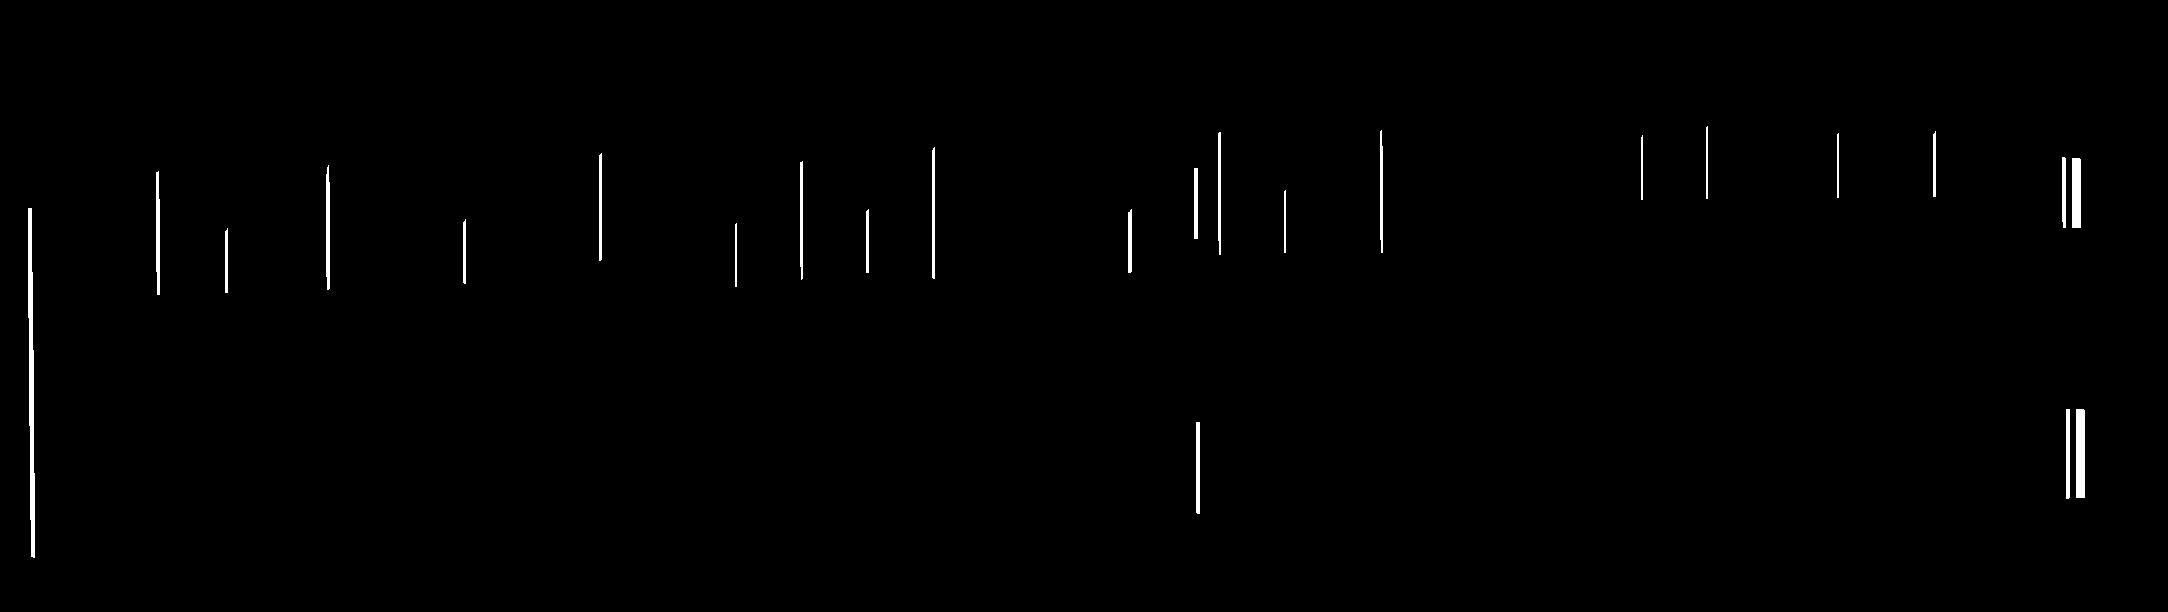
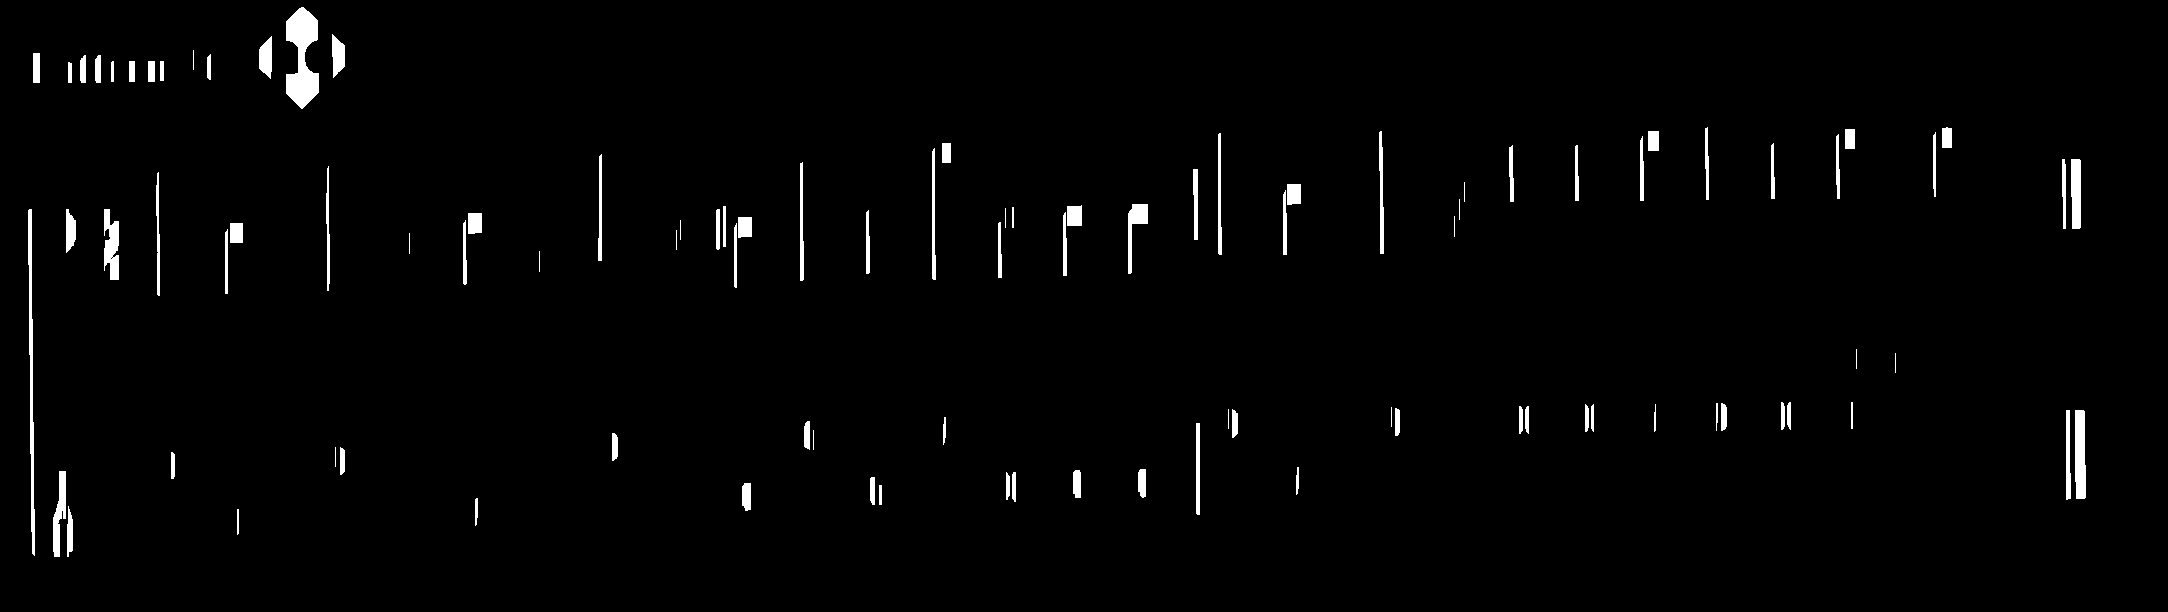
Mise en place d'un pipeline pour retrouver les notes/signes musicaux sur les partitions tablatures. C'est un début mais c'est encourageant ^^

diff --git a/morphological_operations.py b/morphological_operations.py
@@ -66,12 +66,12 @@ def morphological_skeleton(img, maxIter=1024):
         cv2.bitwise_or(skel, temp, skel)
         img = eroded
         nbIteration += 1
-        done = (cv2.countNonZero(img) == 0) and (nbIteration < maxIter)
+        done = (cv2.countNonZero(img) == 0) or (nbIteration >= maxIter)
 
     return skel, nbIteration
 
 
-def extract_horizontal(src, scale=40):
+def extract_horizontal(src, scale=30):
     """Summary
 
     Args:
@@ -103,7 +103,7 @@ def extract_horizontal(src, scale=40):
     return horizontal
 
 
-def extract_vertical(src, scale=10):
+def extract_vertical(src, scale=30):
     """Summary
 
     Args:
@@ -130,7 +130,7 @@ def extract_vertical(src, scale=10):
     return vertical
 
 
-def morpho_dilate(src):
+def morpho_dilate(src, kernelSize=2):
     """Summary
 
     Args:
@@ -141,8 +141,22 @@ def morpho_dilate(src):
     """
     # url:
     # http://opencv-python-tutroals.readthedocs.org/en/latest/py_tutorials/py_imgproc/py_morphological_ops/py_morphological_ops.html
-    kernel = np.ones((2, 2), np.uint8)
+    kernel = np.ones((kernelSize, kernelSize), np.uint8)
     return cv2.dilate(src, kernel, iterations=1)
+
+
+def morpho_erode(src, kernelSize=2):
+    """Summary
+
+    Args:
+        src (TYPE): Description
+        kernelSize (int, optional): Description
+
+    Returns:
+        TYPE: Description
+    """
+    kernel = np.ones((kernelSize, kernelSize), np.uint8)
+    return cv2.erode(src, kernel, iterations=1)
 
 
 def fore_back_ground(img1, img2):
@@ -242,7 +256,7 @@ def fillContours_filterByPerimeter(img, contours, **params):
             cv2.fillPoly(img, pts=contours, color=color)
 
 
-def detectLine_fromContours_filterByPerimeter(img, contours, **params):
+def detectLine_fromContours_filterByPerimeter(_img, contours, **params):
     """Summary
 
     Args:
@@ -272,7 +286,7 @@ def detectLine_fromContours_filterByPerimeter(img, contours, **params):
             righty = int(((width - x) * vy / vx) + y)
 
             # Finally draw the line
-            cv2.line(img_contours, (width - 1, righty), (0, lefty), color, thickness)
+            cv2.line(_img, (width - 1, righty), (0, lefty), color, thickness)
 
 
 def detectLine_LSD(src, minLength2=-1):
@@ -293,10 +307,10 @@ def detectLine_LSD(src, minLength2=-1):
     if lines is not None:
         if minLength2 != -1:
             def length2(line):
-                return (line[0][0]-line[0][2])**2 + (line[0][1]-line[0][3])**2
+                return (line[0][0] - line[0][2])**2 + (line[0][1] - line[0][3])**2
             lines = np.array(
                 filter(
-                    lambda line: length2(line) >= minLength2,
+                    lambda line: length2(line) <= minLength2,
                     lines
                 )
             )
@@ -340,12 +354,14 @@ def binarize_img(img):
     Returns:
         TYPE: Description
     """
-    bitwise_gray = ~gray
-    bw = cv2.adaptiveThreshold(bitwise_gray, 255, cv2.ADAPTIVE_THRESH_MEAN_C, cv2.THRESH_BINARY, 15, -2)
+    bitwise_gray = ~img
+    # bitwise_gray = cv2.medianBlur(cv2.Scharr(bitwise_gray, cv2.CV_8U, 0, 1), 5)
+    # bw = cv2.adaptiveThreshold(bitwise_gray, 255, cv2.ADAPTIVE_THRESH_MEAN_C, cv2.THRESH_BINARY, 15, -2)
     # bw = cv2.adaptiveThreshold(edges, 255, cv2.ADAPTIVE_THRESH_MEAN_C, cv2.THRESH_BINARY, 15, -2)
-    # minThreshold = 15
-    # maxThreshold = 250
-    # ret, bw = cv2.threshold(~gray, minThreshold, maxThreshold, cv2.THRESH_BINARY | cv2.THRESH_OTSU)
+
+    minThreshold = 15
+    maxThreshold = 255
+    ret, bw = cv2.threshold(bitwise_gray, minThreshold, maxThreshold, cv2.THRESH_BINARY | cv2.THRESH_OTSU)
     return bw
 
 #
@@ -365,10 +381,12 @@ src = cv2.imread(filename)
 gray = cv2.cvtColor(src, cv2.COLOR_BGR2GRAY)
 
 # LSD
-showImage(detectLine_LSD(gray, 50 * 50), "LSD")
+line_length = 30
+showImage(detectLine_LSD(gray, line_length ** 2), "LSD")
 
 # Binarisation de l'image
 bw = binarize_img(gray)
+bin_img = bw.copy()
 showImage(bw, "Black & White - adaptiveThreshold")
 
 bw = morpho_dilate(bw)
@@ -382,10 +400,23 @@ horizontal = extract_horizontal(bw.copy())
 showImage(horizontal, "Morpho - extract horizontal")
 cv2.imwrite("extract_horizontal.png", horizontal)
 
+remove_horizontal = bin_img.copy()
+remove_horizontal[horizontal == 255] = 0
+remove_horizontal = cv2.medianBlur(remove_horizontal, 5)
+showImage(remove_horizontal, "remove_horizontal")
+
 vertical = extract_vertical(bw.copy())
 #
 showImage(vertical, "Morpho - extract vertical")
 cv2.imwrite("extract_vertical.png", vertical)
+
+add_vertical = remove_horizontal.copy()
+add_vertical[vertical == 255] = 255
+add_vertical = cv2.GaussianBlur(morpho_dilate(add_vertical, 3), (5, 5), 0)
+showImage(add_vertical, "add_vertical")
+
+add_vertical_mskel, nbIter = morphological_skeleton(add_vertical.copy())
+showImage(add_vertical_mskel, "add_vertical + MorphoSkel - nbIter={0}".format(nbIter))
 
 params_findContours = {"mode": cv2.RETR_CCOMP, "method": cv2.CHAIN_APPROX_SIMPLE}
 contours, hierarchy = findContours(horizontal, **params_findContours)
@@ -408,7 +439,7 @@ params_detectLines = dict(params_fillContours, **{'color': (255, 0, 0)})
 detectLine_fromContours_filterByPerimeter(img_contours, contours, **params_detectLines)
 
 img_contours_mskel, nbIter = morphological_skeleton(img_contours_2.copy())
-showImage(img_contours_mskel, "img_contours_2 + MorphoSkel")
+showImage(img_contours_mskel, "img_contours_2 + MorphoSkel - nbIter={0}".format(nbIter))
 
 img_contours_2 = cv2.Canny(img_contours_2, 150, 700, apertureSize=5)
 showImage(img_contours_2, "Contours - Canny")
@@ -423,6 +454,22 @@ img_contours_mskel[np.where((img_contours_mskel == [255, 255, 255]).all(axis=2))
 img_contours_mskel = fore_back_ground(img_contours, img_contours_mskel)
 
 showImage(img_contours_mskel, "Contours + MSkel - Couleurs")
+
+_, contours, hierarchy = cv2.findContours(add_vertical.copy(), cv2.RETR_EXTERNAL, cv2.CHAIN_APPROX_NONE)  # get contours
+# for each contour found, draw a rectangle around it on original image
+for contour in contours:
+    # get rectangle bounding contour
+    [x, y, w, h] = cv2.boundingRect(contour)
+    # discard areas that are too large
+    # if h > 300 and w > 300:
+    #     continue
+    # discard areas that are too small
+    # if h < 40 or w < 40:
+    #     continue
+    # draw rectangle around contour on original image
+    cv2.rectangle(src, (x, y), (x + w, y + h), (200, 64, 255), 3)
+
+src[img_contours == (255, 0, 0)] = img_contours[img_contours == (255, 0, 0)]
 
 showImage(src, "Source")
 

diff --git a/sobel_with_subplot.py b/sobel_with_subplot.py
@@ -1,0 +1,26 @@
+import cv2
+# import numpy as np
+from matplotlib import pyplot as plt
+
+img = cv2.imread('Page_09_Pattern_26.png', 0)
+
+laplacian = cv2.Laplacian(img, cv2.CV_64F)
+sobelx = cv2.Sobel(img, cv2.CV_64F, 1, 0, ksize=5)
+sobely = cv2.Sobel(img, cv2.CV_64F, 0, 1, ksize=5)
+scharrx = cv2.medianBlur(cv2.Scharr(img, cv2.CV_8U, 0, 1), 5)
+scharry = cv2.medianBlur(cv2.Scharr(img, cv2.CV_8U, 0, 1), 5)
+
+plt.subplot(3, 2, 1), plt.imshow(img, cmap='gray')
+plt.title('Original'), plt.xticks([]), plt.yticks([])
+plt.subplot(3, 2, 2), plt.imshow(laplacian, cmap='gray')
+plt.title('Laplacian'), plt.xticks([]), plt.yticks([])
+plt.subplot(3, 2, 3), plt.imshow(sobelx, cmap='gray')
+plt.title('Sobel X'), plt.xticks([]), plt.yticks([])
+plt.subplot(3, 2, 4), plt.imshow(sobely, cmap='gray')
+plt.title('Sobel Y'), plt.xticks([]), plt.yticks([])
+plt.subplot(3, 2, 5), plt.imshow(scharrx, cmap='gray')
+plt.title('Scharr X'), plt.xticks([]), plt.yticks([])
+plt.subplot(3, 2, 6), plt.imshow(scharry, cmap='gray')
+plt.title('Scharr Y'), plt.xticks([]), plt.yticks([])
+
+plt.show()
